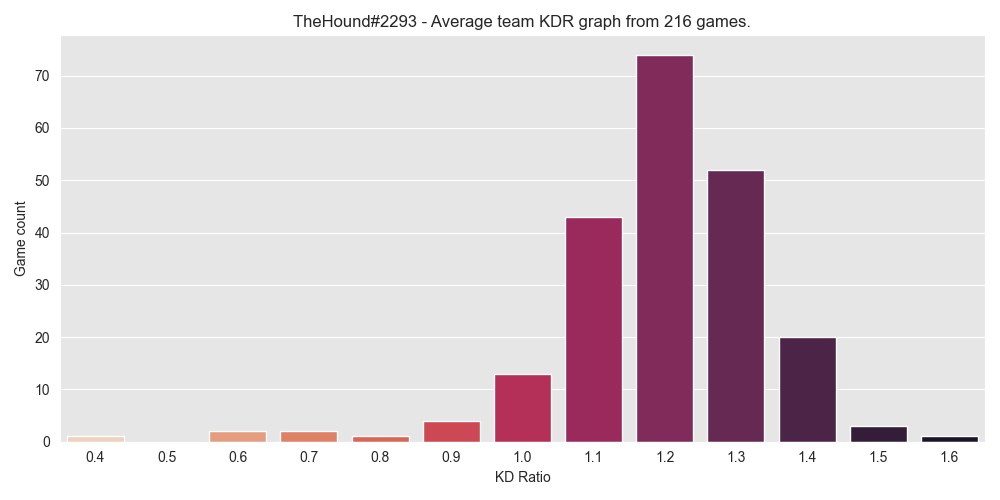
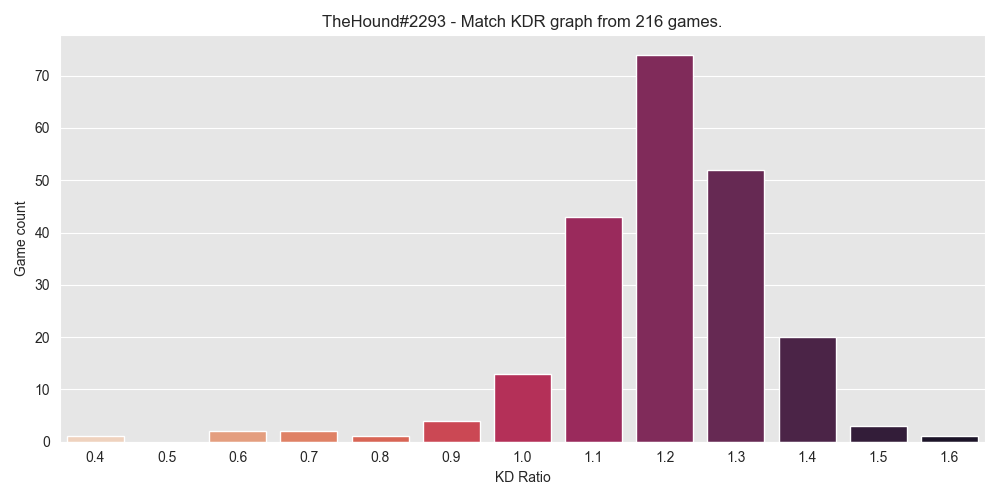
Change graph title

Changed region(s): [[0.279, 0.03, 0.744, 0.06]]

diff --git a/warzone_scraper.py b/warzone_scraper.py
@@ -195,7 +195,7 @@ def plot_lobbies_kd4(usernames: list[str], count: int):
         df = prepare_frame(df)
 
         sns.barplot(ax=ax[idx], x=df.kd, y=df[0], palette='rocket_r')
-        ax[idx].set(title=f'{user} - Average team KDR graph from {size} games.',
+        ax[idx].set(title=f'{user} - Match KDR graph from {size} games.',
                     ylabel='Game count', xlabel='KD Ratio')
 
     fig.tight_layout()
@@ -215,7 +215,7 @@ def plot_lobbies_kd(username: str, count: int):
 
     fig, ax = plt.subplots(1, 1, figsize=(10, 5))
     sns.barplot(ax=ax, x=df.kd, y=df[0], palette='rocket_r')
-    ax.set(title=f'{username} - Average team KDR graph from {size} games.',
+    ax.set(title=f'{username} - Match KDR graph from {size} games.',
            ylabel='Game count', xlabel='KD Ratio')
 
     fig.tight_layout()

diff --git a/README.md b/README.md
@@ -5,7 +5,7 @@ Python script that can plot lobby KDRs of someones last N lobbies.
 If you wonder why some people seem to have very easy lobbies, you can easily compare them with yours! You might find that some people abuse the game to match with weaker players to feel good.
 
 About program:
-- To use you need to fill in your browser headers on line 21 and the rest if pretty straightforward.
+- **To use** you need to fill in your browser headers at [line 21](https://github.com/HoundThe/WarzoneLobbyScraper/blob/main/warzone_scraper.py#L21) and the rest if pretty straightforward.
 - There is delay between requests 2 seconds by default, you can lower it, but be careful about ratelimits if you are trying to plot large amount of lobbies.
 - Some people might not have enough games played or data on codtracker.
 - Plots have fixed ticks from 0.4 to 1.6 KDR, which works for pretty much everyone except some outliers.
